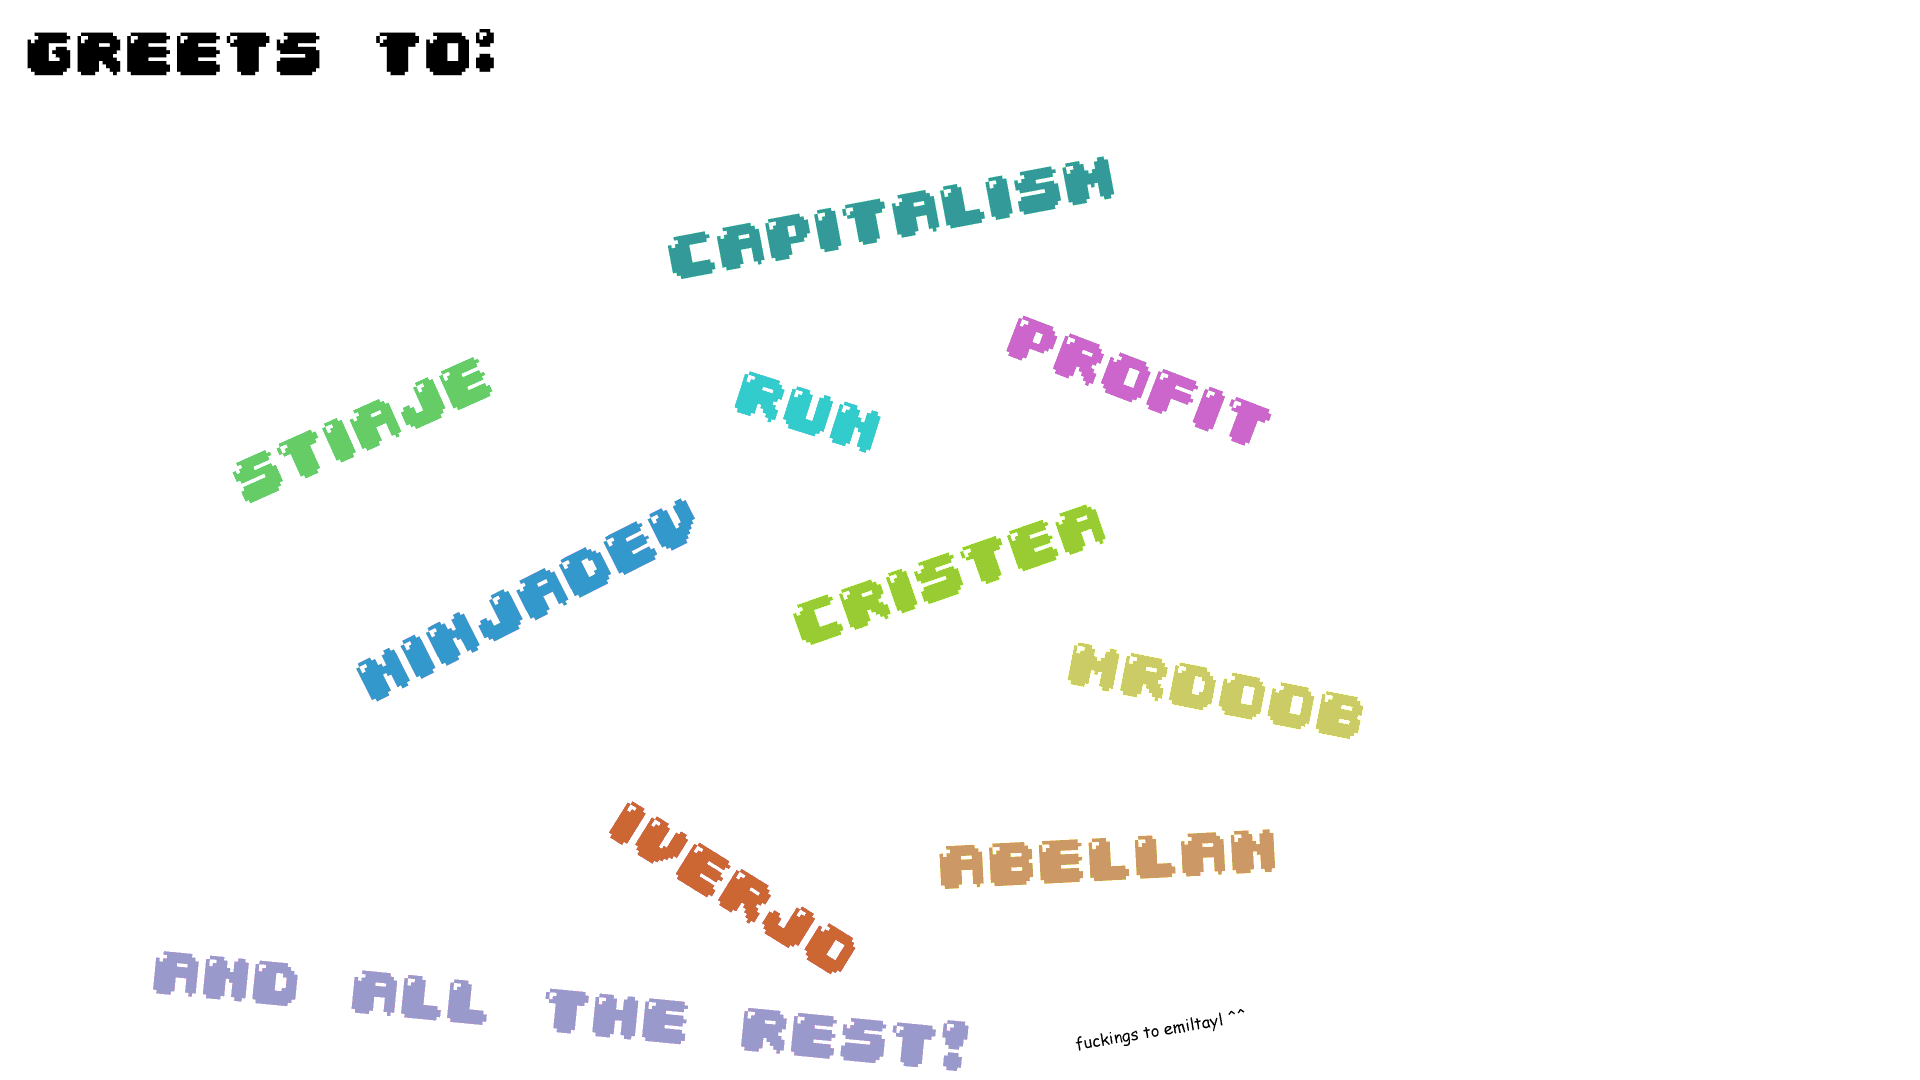
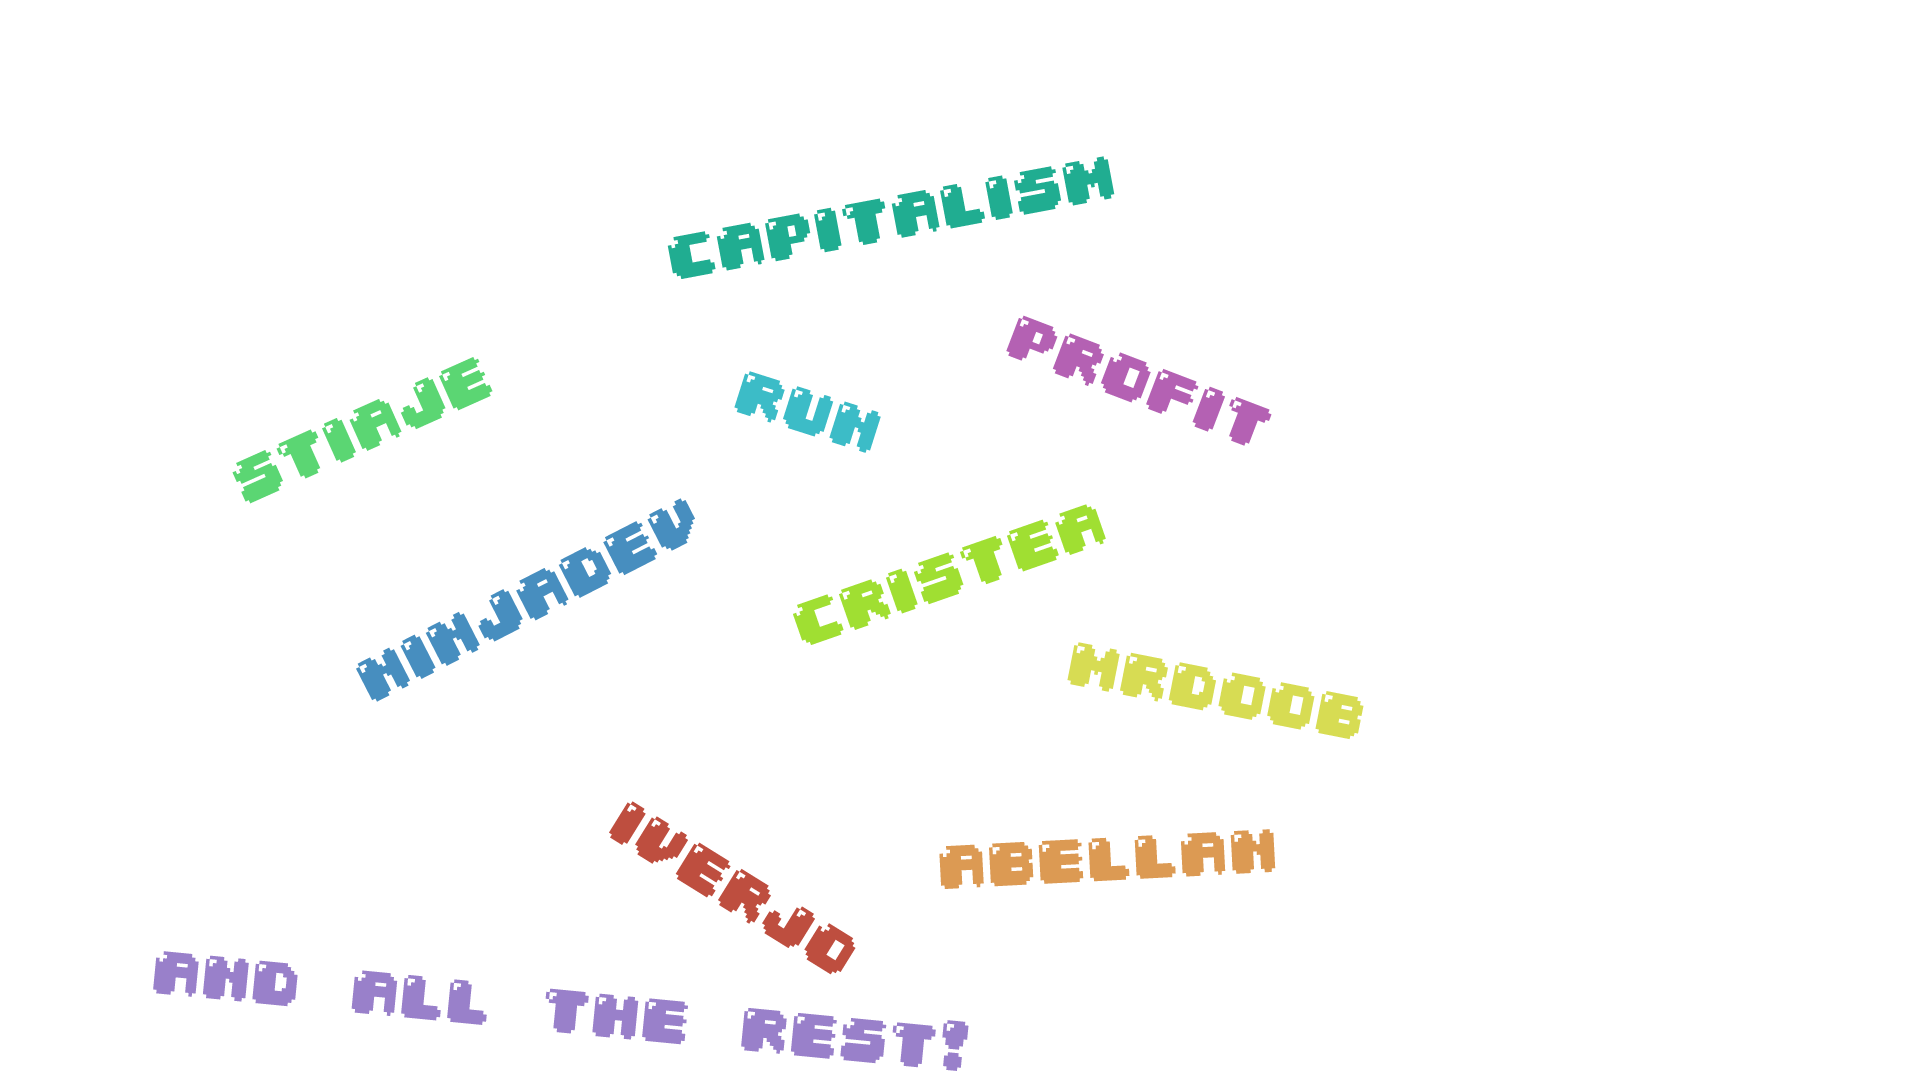
GreetScene finally looks good

diff --git a/LensShader.js b/LensShader.js
@@ -1,51 +1,39 @@
+THREE.LensShader = {
 
-THREE.NoiseShader= {
-
-  uniforms: {
-		tDiffuse: { type: "t", value: 0, texture: null },
-        amount:   { type: "f", value: 0.1 },
-	    time:     { type: "f", value: 0 },
-	    width:    { type: "f", value: 900},
-	    height:   { type: "f", value: 900}
+	uniforms: {
+		"tDiffuse":        { type: "t", value: null }
 	},
 
 	vertexShader: [
 		"varying vec2 vUv;",
 
 		"void main() {",
-			"vUv = vec2(uv.x, uv.y);",
-
+			"vUv = uv;",
 			"gl_Position = projectionMatrix * modelViewMatrix * vec4( position, 1.0 );",
-
 		"}"
-
 	].join("\n"),
 
 	fragmentShader: [
+        "varying mediump vec2 vUv;",
+        "uniform sampler2D tDiffuse;",
 
-		"uniform float time;",
-		"uniform float amount;",
-		"uniform sampler2D tDiffuse;",
-		"uniform float width;",
-		"uniform float height;",
-		"varying vec2 vUv;",
-
-		"float ranieyy(vec2 co) {",
-			"return fract(sin(dot(co.xy, vec2(12.9898,78.233))) * 43758.5453);",
-		"}",
-
-		"void main() {",
-		
-			"vec4 colorInput = texture2D( tDiffuse, vUv );",
-
-			"vec2 pozz = vec2(floor(width*vUv.x)/width, floor(height*vUv.y)/height);",
-
-			"vec3 color = vec3(.1, 0.1, 0.1) + vec3(ranieyy(vec2(pozz+time/1009.0)));",
-
-			"gl_FragColor = colorInput*(1.0-amount)+amount*vec4(color, 0.1);",
-
-		"}"
-
+        "void main() {",
+            "vec2 center = vec2(0.5, 0.5);",
+            "float radius = 4.;",
+            "float scale = -0.25;",
+            "vec2 textureCoordinateToUse = vUv;",
+            "float dist = distance(center, vUv);",
+            "textureCoordinateToUse -= center;",
+            "if (dist < radius) {",
+                "highp float percent = 1.0 + ((0.5 - dist) / 0.5) * scale;",
+                "textureCoordinateToUse = textureCoordinateToUse * percent;",
+                "textureCoordinateToUse += center;",
+                "vec4 color = texture2D(tDiffuse, textureCoordinateToUse );",
+                "if (percent > 1.) {",
+                    "color = (1. - (percent - 1.) * 15.) * color;",
+                "}",
+                "gl_FragColor = color;",
+            "}",
+        "}"
 	].join("\n")
-
 };

diff --git a/GreetScene.js b/GreetScene.js
@@ -1,7 +1,7 @@
 function GreetScene(){ }
 
 GreetScene.prototype.NAME = 'greet';
-GreetScene.prototype.startTime = 4136;
+GreetScene.prototype.startTime = 4126;
 
 GreetScene.prototype.init = function(done){
     this.greetzImage = document.createElement('img');
@@ -45,7 +45,15 @@ GreetScene.prototype.syncrender = function(){
     this.leaderBall.render(this.infiniteCanvas);
     this.balls.render(this.infiniteCanvas);
     this.ctx.clearRect(0, 0, this.canvas.width, this.canvas.height);
-    this.infiniteCanvas.render(this.ctx, -(this.leaderBall.x - 8), -(this.leaderBall.y - 4.5), this.scale);
+    var x = -(this.leaderBall.x - 6);
+    var y = -(this.leaderBall.y - 4.5);
+    this.canvas.style.backgroundPosition = (x * GU / 2) + 'px ' + (y * GU / 2) + 'px';
+    this.infiniteCanvas.render(this.ctx, x, y, this.scale);
+    if(t > 5129){
+        var amount = (t - 5129) / (5369 - 5129);
+        this.ctx.fillStyle = 'rgba(255, 255, 255,' + amount + ')';
+        this.ctx.fillRect(0, 0, this.canvas.width, this.canvas.height);
+    }
 }
 
 GreetScene.prototype.render = function(){
@@ -53,11 +61,12 @@ GreetScene.prototype.render = function(){
 
 GreetScene.prototype.reset = function(){
     renderer.domElement.style.display = 'none';
-    this.infiniteCanvas.drawImage(this.greetzImage, -4, 0);
+    this.infiniteCanvas.drawImage(this.greetzImage, -10, 9);
     document.body.appendChild(this.canvas);
-    Math.random = Random(12);
+    Math.random = Random(172344);
 }
 GreetScene.prototype.pause = function(){
+    document.body.removeChild(this.canvas);
 }
 GreetScene.prototype.resume = function(){
 }

diff --git a/index.html b/index.html
@@ -7,15 +7,18 @@
 <script src=InfiniteCanvas.js></script>
 <script src=Random.js></script>
 <script src=PlasmaShader.js></script>
+<script src=LensShader.js></script>
 <script src=EffectComposer.js></script>
 <script src=CopyShader.js></script>
 <script src=BloomPass.js></script>
+<script src=ScanlineShader.js></script>
 <script src=RenderPass.js></script>
 <script src=ShaderPass.js></script>
 <script src=ConvolutionShader.js></script>
 <script src=NoiseShader.js></script>
 <script src=ShaderExtras.js></script>
 <script src=ScreenScene.js></script>
+<script src=ShoutScene.js></script>
 <script src=bootstrap.js></script>
 <script src=DumpsterScene.js></script>
 <script src=GreetScene.js></script>
@@ -35,7 +38,7 @@
         background: black;
     }
     canvas {
-        background: white;
+        background: url('res/skybox/up.jpg');
     }
     @font-face {
         font-family: 'cool';

diff --git a/ScreenScene.js b/ScreenScene.js
@@ -112,11 +112,15 @@ ScreenScene.prototype.init = function(done){
     this.composer = new THREE.EffectComposer(renderer);
     this.bloomEffect = new THREE.BloomPass(0.75, 16);
     this.noiseEffect = new THREE.ShaderPass(THREE.NoiseShader);
+    this.fisheyeEffect = new THREE.ShaderPass(THREE.LensShader);
+    this.scanlineEffect = new THREE.ShaderPass(THREE.ScanlineShader);
     this.copyPass = new THREE.ShaderPass(THREE.CopyShader);
     this.copyPass.renderToScreen = true;
     this.composer.addPass(new THREE.RenderPass(this.scene, this.camera));
+    this.composer.addPass(this.scanlineEffect);
     this.composer.addPass(this.noiseEffect);
     this.composer.addPass(this.bloomEffect);
+    this.composer.addPass(this.fisheyeEffect);
     this.composer.addPass(this.copyPass);
 
     this.plasmaUniforms = {

diff --git a/ScanlineShader.js b/ScanlineShader.js
@@ -1,0 +1,28 @@
+THREE.ScanlineShader = {
+
+	uniforms: {
+		"tDiffuse":        { type: "t", value: null }
+	},
+
+	vertexShader: [
+		"varying vec2 vUv;",
+
+		"void main() {",
+			"vUv = uv;",
+			"gl_Position = projectionMatrix * modelViewMatrix * vec4( position, 1.0 );",
+		"}"
+	].join("\n"),
+
+	fragmentShader: [
+        "varying mediump vec2 vUv;",
+        "uniform sampler2D tDiffuse;",
+
+        "void main() {",
+            "vec4 color = texture2D(tDiffuse, vUv);",
+            "if(sin(vUv.y * 160. * 1.5 * 3.14159265) > 0.){",
+                "color = color * 0.9;",
+            "}",
+            "gl_FragColor = color;",
+        "}"
+	].join("\n")
+};

diff --git a/ShoutScene.js b/ShoutScene.js
@@ -1,0 +1,18 @@
+function ShoutScene(){ }
+
+ShoutScene.prototype.NAME = 'shout';
+ShoutScene.prototype.startTime = 5370;
+
+ShoutScene.prototype.init = function(done){
+    done();
+}
+ShoutScene.prototype.update = function(){
+}
+ShoutScene.prototype.render = function(){
+}
+ShoutScene.prototype.reset = function(){
+}
+ShoutScene.prototype.pause = function(){
+}
+ShoutScene.prototype.resume = function(){
+}

diff --git a/Ball.js b/Ball.js
@@ -37,8 +37,7 @@ Ball.prototype.sprite = (function(){
     canvas.width = GU * 0.2;
     canvas.height = GU * 0.2;
     var ctx = canvas.getContext('2d');
-    ctx.fillStyle = 'rgba(120,32,45,0.1)';
-    ctx.fillStyle = 'black';
+    ctx.fillStyle = 'white';
     ctx.arc(canvas.width / 2, canvas.height / 2,
             canvas.width / 2, 2 * Math.PI, false);
     ctx.fill();

diff --git a/SceneManager.js b/SceneManager.js
@@ -27,6 +27,7 @@ SceneManager.prototype.initScenes = function(cb){
 };
 
 SceneManager.prototype.jumpToScene = function(key, dontResetMusic){
+    this.activeScene && this.activeScene.pause && this.activeScene.pause();
     this.activeKey = key;
     this.activeScene = this.scenes[key];
     this.activeScene.reset();

diff --git a/bootstrap.js b/bootstrap.js
@@ -55,6 +55,7 @@ function start(){
     sm.addScene(new ScreenScene());
     sm.addScene(new DumpsterScene());
     sm.addScene(new GreetScene());
+    sm.addScene(new ShoutScene());
     sm.initScenes(function(){
         sm.warmup();
         readytostart();
